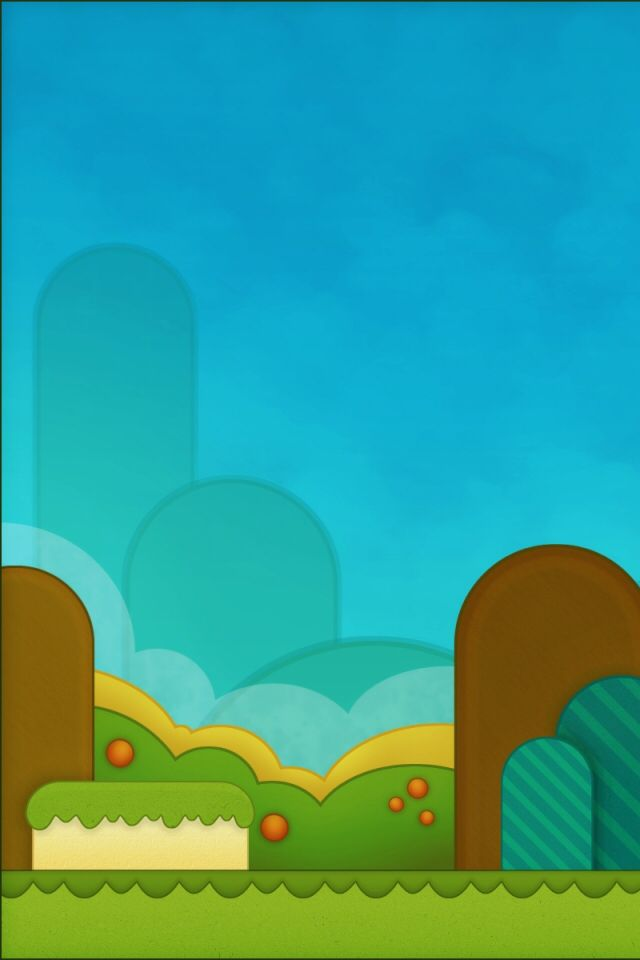
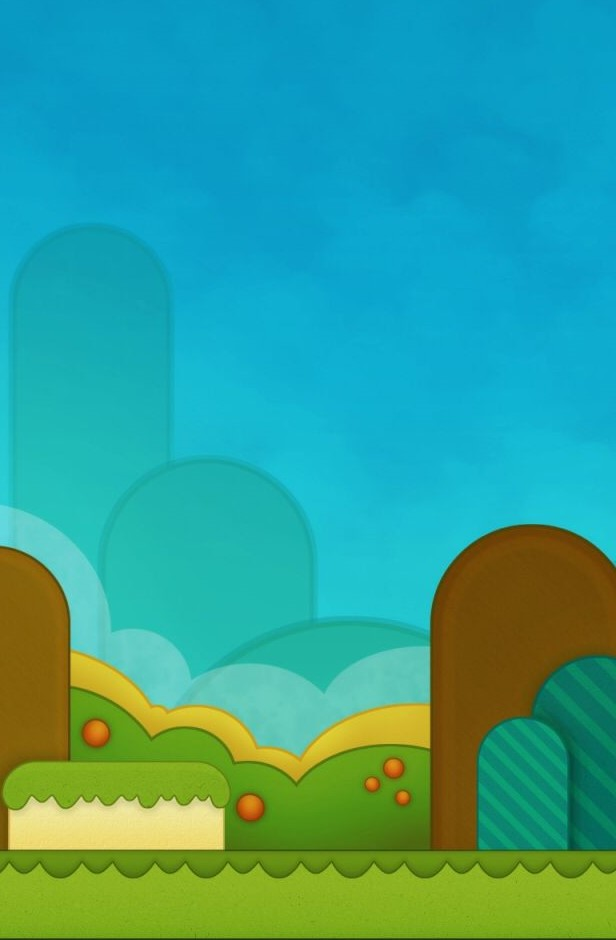
Merveil

Changed region(s): [[0.0, 0.0, 1.0, 1.0], [0.2776, 0.2777, 0.3701, 0.4936]]

diff --git a/src/index.html b/src/index.html
@@ -12,7 +12,7 @@
         <div class="container mt-5">
             <h1 class="title text-center mx-auto"><span id="print-cpt"></span> Cookie <span id="title_disabled">clicker </span>!</h1>
         </div>
-        <div class="container col-10">
+        <div class="container col-6 col-sm-4 col-md-3 col-lg-3">
 
             <input type="image" class="w-100" id="button-cookie" src="./assets/img/cookie.png"  alt="main cookies"/>
         </div>
@@ -27,7 +27,7 @@
                 <button id="bonus_button" type="button" class="btn btn-primary disabled" >BONUS</button>
             </div>
         </div>
-        <aside id="info_box" class="container w-100 mt-5 text-light p-3 ">
+        <aside id="info_box" class="container w-100 mt-5 text-light p-3 col-11 col-sm-10 col-md-6 col-lg-3">
             <span>
                 Statistique :
             </span> <br/>
@@ -38,7 +38,7 @@
                 Total des cookies dépensés: <span id="print-box-loose">0</span>
             </span> <br/>
         </aside>
-        <aside id="info_price" class="container w-100 mt-3 text-light p-3 d-none">
+        <aside id="info_price" class="container w-100 mt-3 text-light p-3 d-none col-11 col-sm-10 col-md-6 col-lg-3">
 
         </aside>
     </main>

diff --git a/src/scss/styles.scss b/src/scss/styles.scss
@@ -50,3 +50,9 @@ body {
   font-family: $ibm_plex_mono;
   font-weight: bold;
 }
+@media only screen and (min-width: 640px) { 
+  body {
+    background: linear-gradient(0deg, rgba(9,158,198,1) 0%, rgba(11,168,207,1) 53%, rgba(8,154,195,1) 98%);
+    background:  url("../assets/img/background_mobile.jpg") no-repeat top rgb(9, 158, 198) ;
+}
+}

diff --git a/src/js/main.js b/src/js/main.js
@@ -13,7 +13,7 @@ let multiplier = 1; // sera modifié en fonction du bonus (par defaut 1)
 let priceX2 = 5;
 let priceX5 = 10;
 let priceX10 = 50;
-let priceUnblockPanel = 500;
+let priceUnblockPanel = 1;
 let priceBonus = 600;
 let priceAutoclicker = 550;
 
